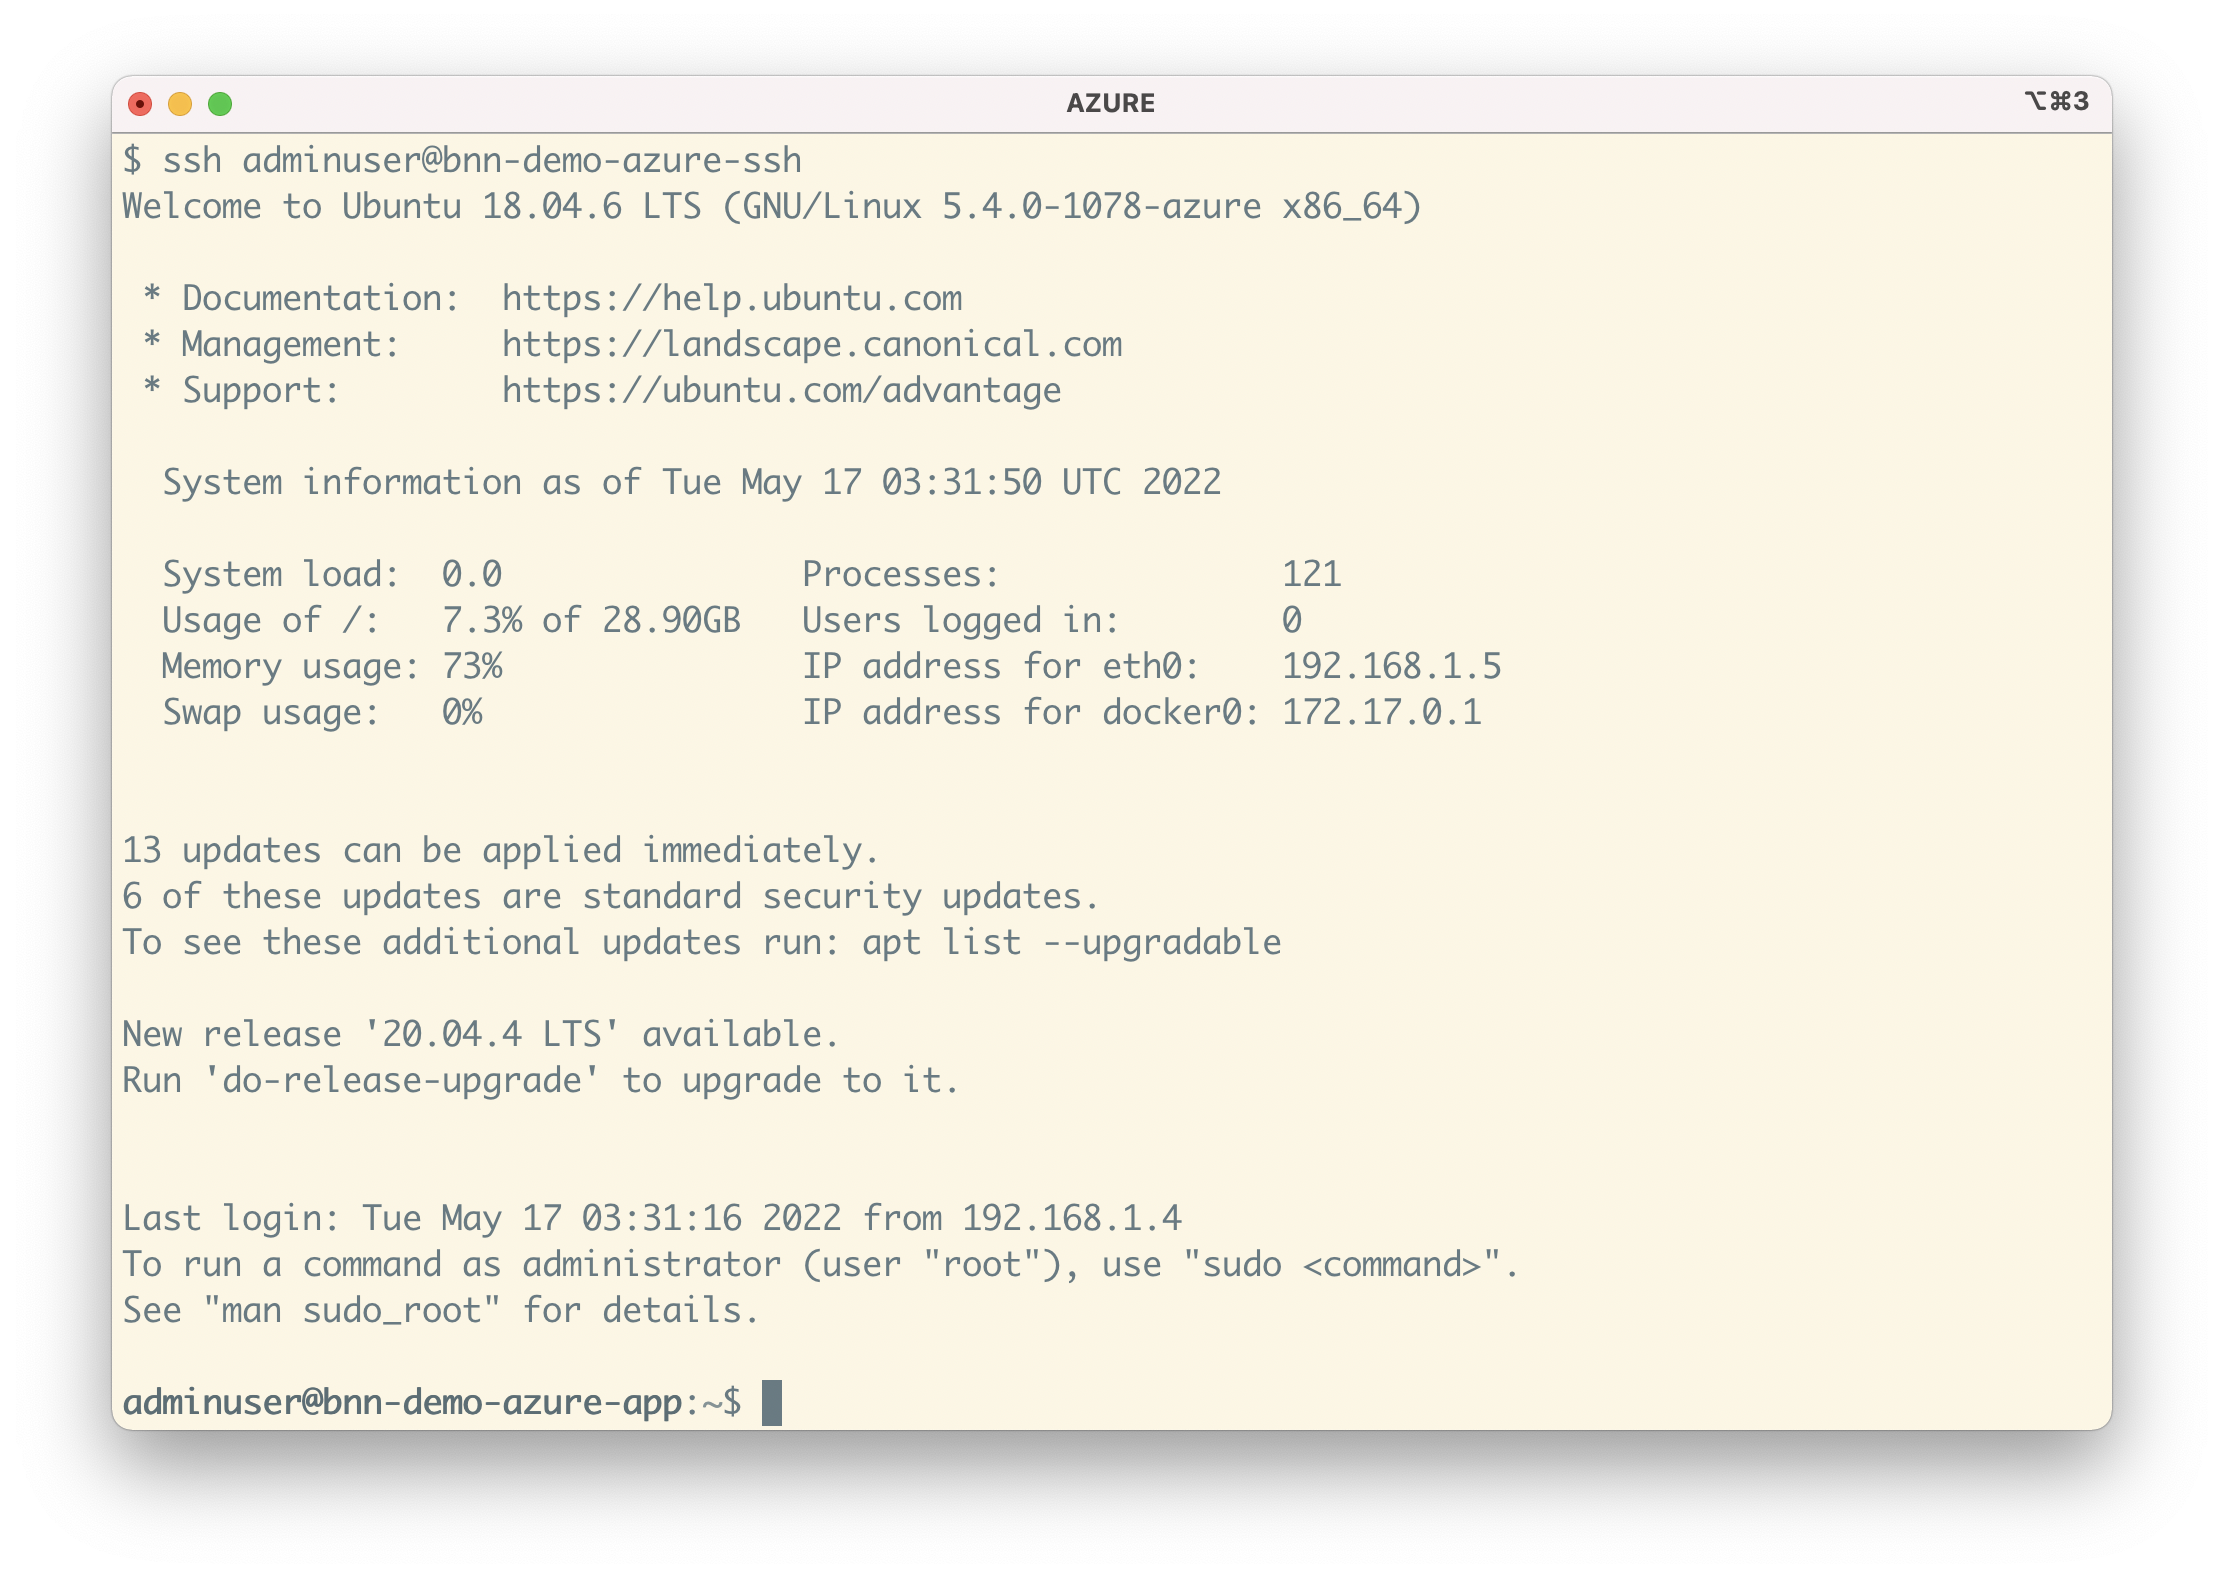
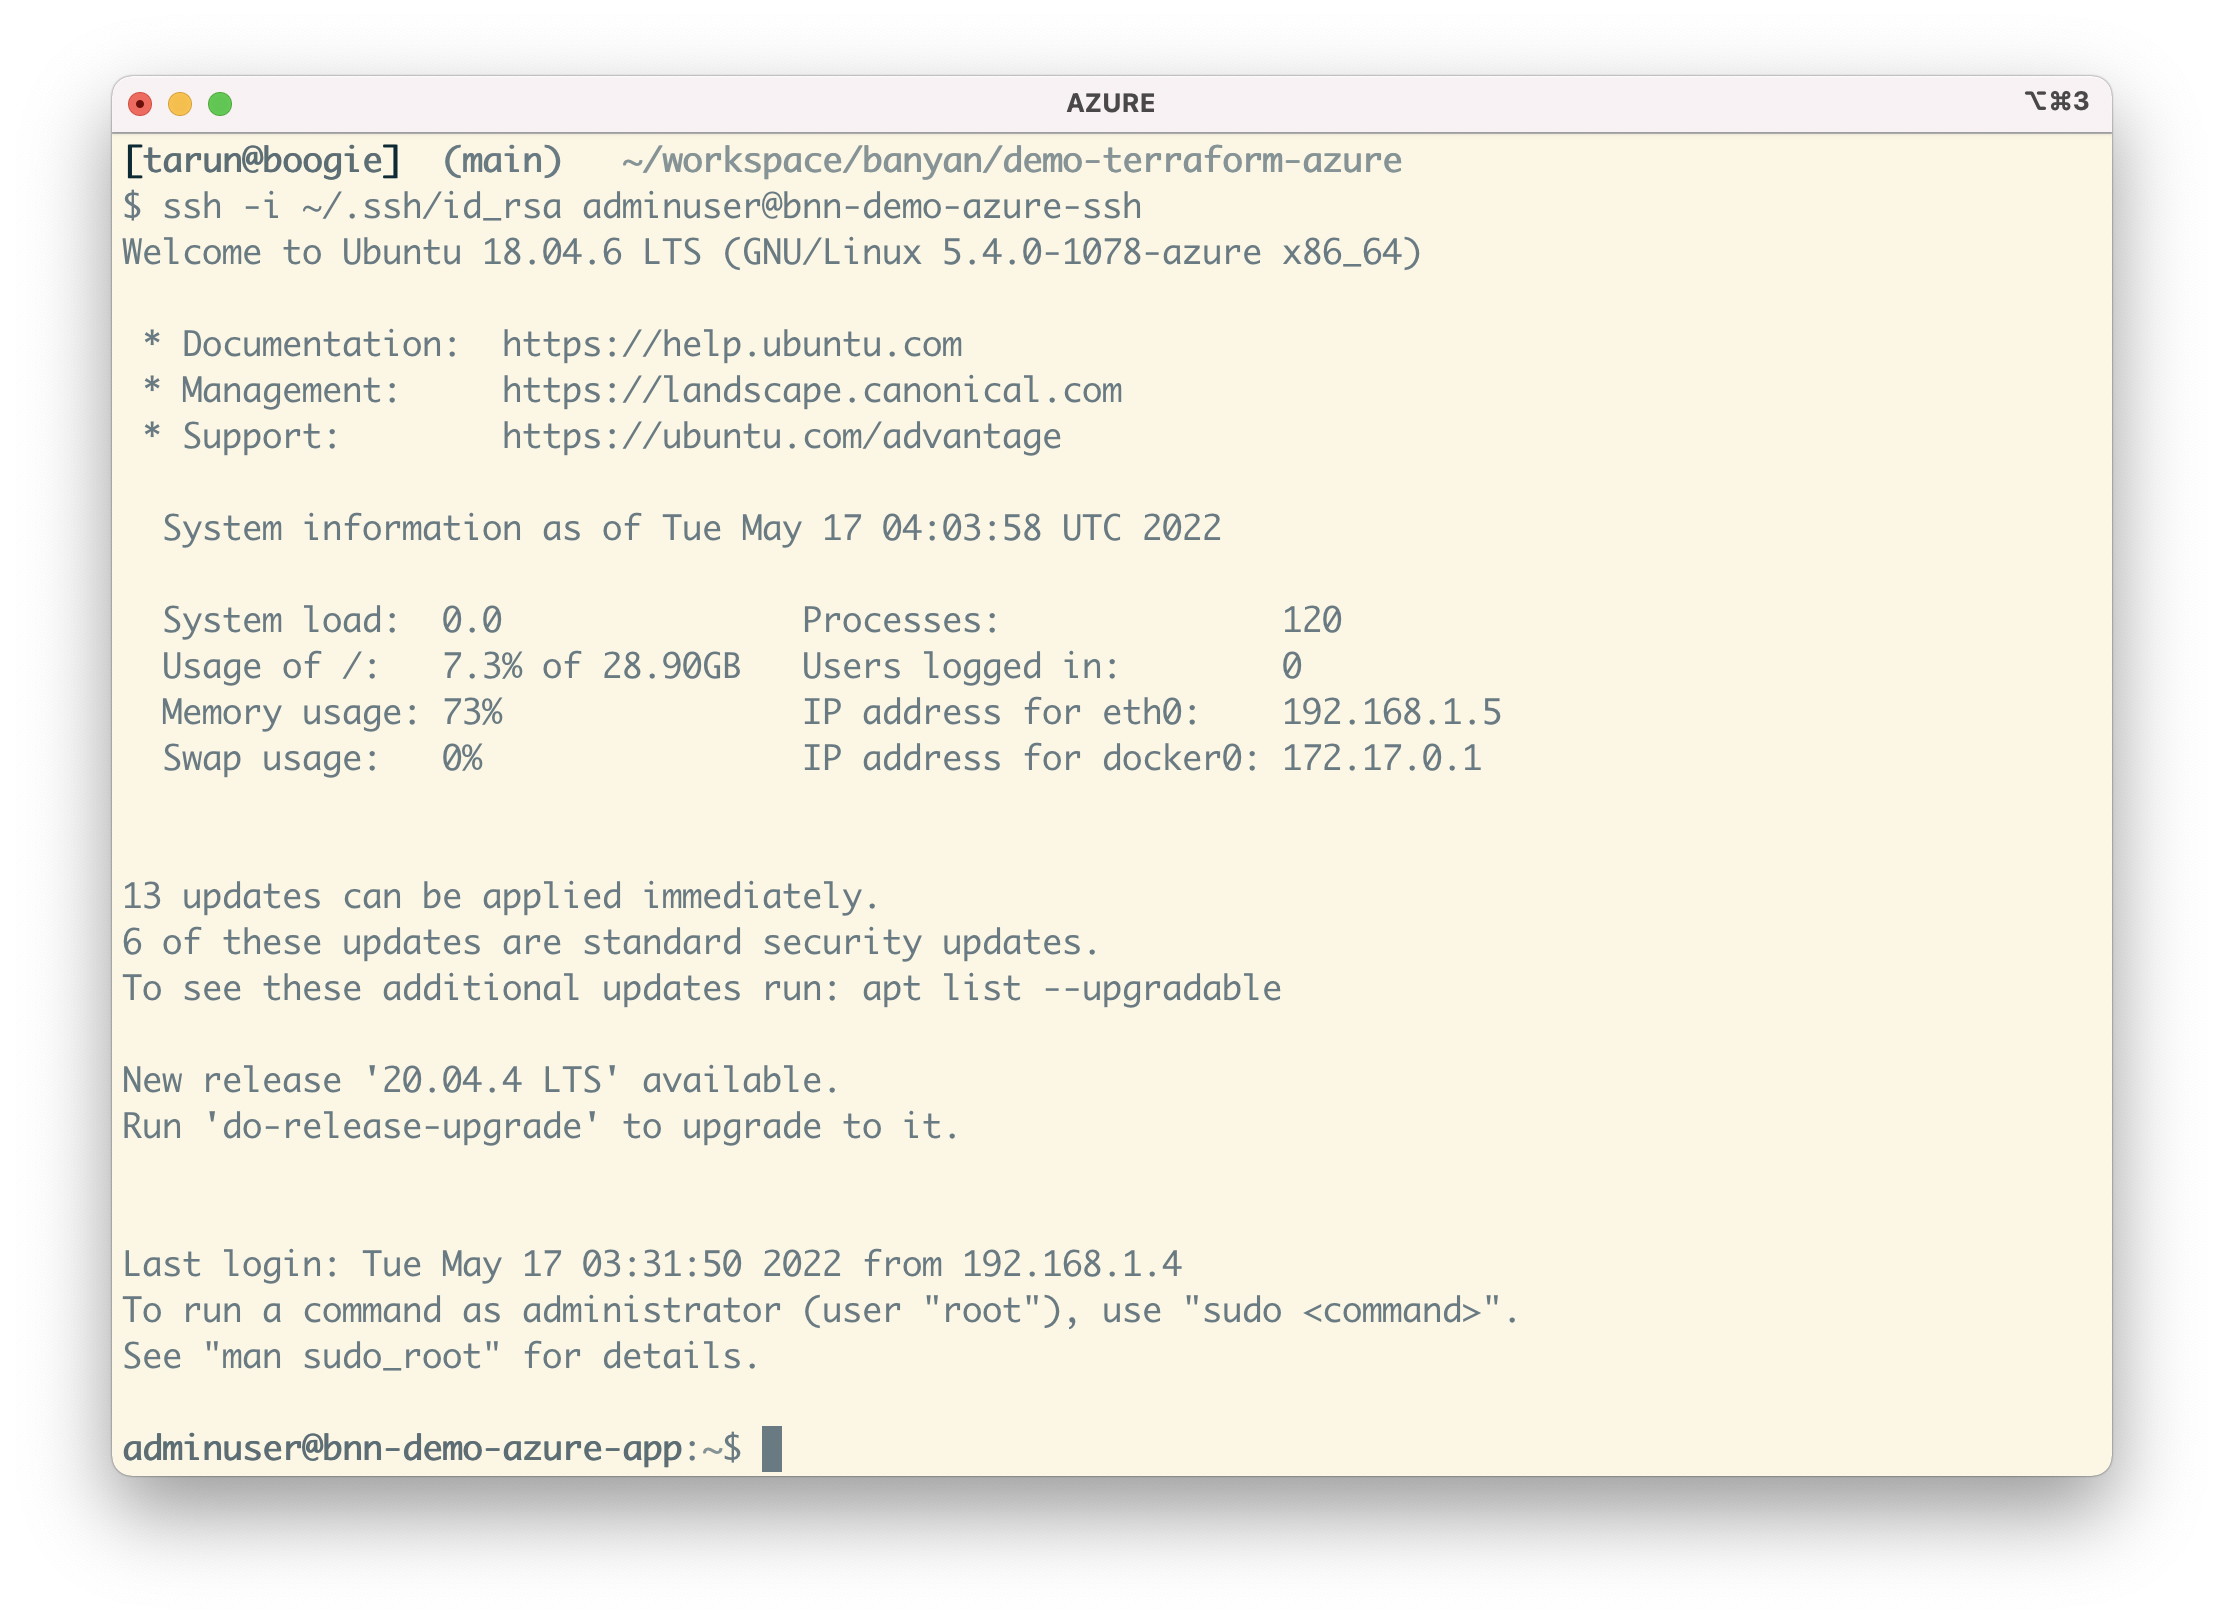
README - ssh img

diff --git a/README.md b/README.md
@@ -62,10 +62,10 @@ Clicking "Open" on your web application `bnn-demo-azure-web` will launch a new b
 
 ![Demo Website](_img/web.png)
 
-To SSH into the Linux server, click "Connect" on the SSH service `bnn-demo-azure-ssh`. Then run the SSH command with your key-pair as the credential: 
+To SSH into the Linux server, click "Connect" on the SSH service `bnn-demo-azure-ssh`. Then run the SSH command with your SSH key as the credential: 
 
 ```
-ssh -i YOUR_KEY_NAME adminuser@bnn-demo-azure-ssh
+ssh -i PATH_TO_SSH_KEY adminuser@bnn-demo-azure-ssh
 ```
 
 ![SSH Session](_img/ssh.png)
